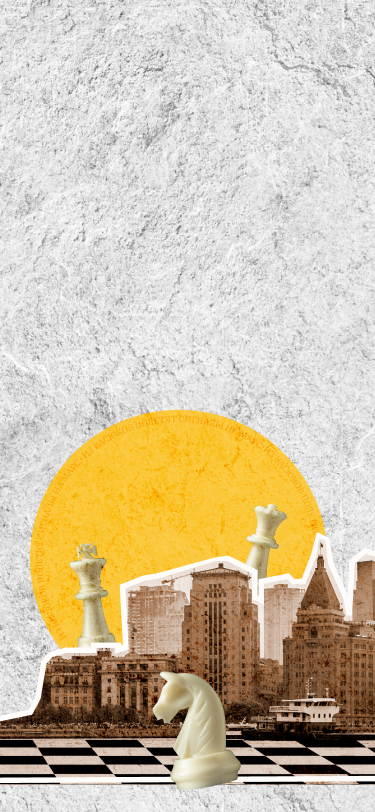
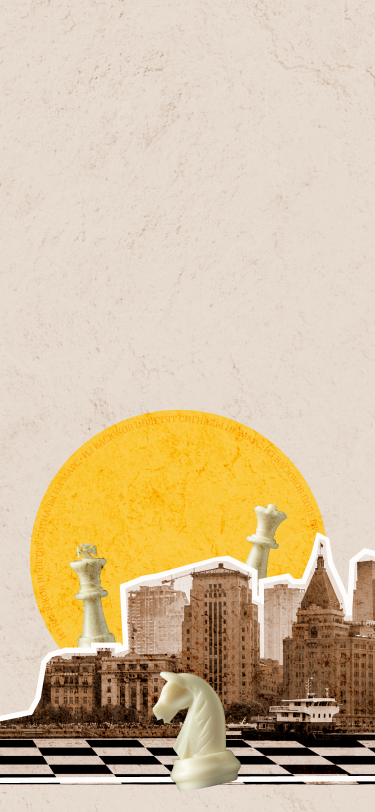
introduction page finished

Changed region(s): [[0.0, 0.0, 1.0, 0.8929], [0.0, 0.9544, 1.0, 1.0]]

diff --git a/styles/styles.css b/styles/styles.css
@@ -8,6 +8,11 @@
   box-sizing: border-box;
 }
 
+* {
+  margin: 0;
+  padding: 0;
+}
+
 /**
   Убираем внутренние отступы слева тегам списков,
   у которых есть атрибут class
@@ -194,12 +199,13 @@ svg * {
   --color-accent-alt: #3057A2;
   --background-color: #FFFFFF;
   --background-color-alt: #E9DED4;
-  --button-color-light: #FFFFFF;
+  --button-color-light: #ffffffd2;
   --button-color-dark: #1F1F1F;
   --button-color-accent: #FBCE51;
   --button-color-accent-alt: #3057A2;
   --button-main-radius: 66px;
   --border-alt-radius: 62px;
+  --border-button: 2px solid var( --button-color-dark);
   --button-main-height: 72px;
   --button-main-mobile-height: 47px;
   --button-alt-height: 35px;
@@ -237,7 +243,7 @@ svg * {
 }
 
 body {
-  font-size: clamp(16px, 1.25px, 18px);
+  font-size: clamp(16px, 1.317715959vw, 18px);
   font-family: var(--font-family-base);
   font-weight: 400;
   line-height: 1.28;
@@ -267,33 +273,68 @@ h1, h2, h3, h4 {
 }
 
 h1, .h1 {
-  font-size: clamp(36px, 4.1666666667px, 60px);
+  font-size: clamp(36px, 4.39238653vw, 60px);
+  line-height: clamp(39px, 4.831625183vw, 66px);
 }
 
 h2, .h2 {
-  font-size: clamp(36px, 3.75px, 54px);
+  font-size: clamp(36px, 3.953147877vw, 54px);
 }
 
 h3, .h3 {
-  font-size: clamp(28px, 2.5px, 36px);
+  font-size: clamp(28px, 2.635431918vw, 36px);
 }
 
 h4, .h4 {
-  font-size: clamp(16px, 1.5277777778px, 22px);
+  font-size: clamp(16px, 1.6105417277vw, 22px);
 }
 
 .comments {
-  font-size: clamp(18px, 1.3888888889px, 20px);
+  font-size: clamp(18px, 1.4641288433vw, 20px);
 }
 
 .button {
-  width: 170px;
-  border-radius: var(--border-radius-small);
+  width: 263px;
+  height: 72px;
+  border-radius: var(--button-main-radius);
   border: none;
+  padding-inline: 43px;
+  padding-block: auto;
+  font-weight: 500;
+  font-family: var(--font-family-base);
+  font-size: 16px;
+  line-height: 20.8px;
+  text-align: center;
+  color: var(--color-light);
+  background-color: var(--button-color-dark);
   cursor: pointer;
-  font-size: 14px;
-  line-height: 20px;
-  padding: 10px 0;
+  transition: var(--transition-duration);
+}
+.button:hover {
+  color: var(--button-color-dark);
+  background-color: var(--button-color-accent);
+}
+@media (max-width: 375px) {
+  .button {
+    width: 100%;
+    height: 47px;
+  }
+}
+
+.button-alt {
+  border: var(--border-button);
+  background-color: transparent;
+  color: var(--button-color-dark);
+}
+.button-alt:hover {
+  color: var(--color-light);
+  background-color: var(--button-color-dark);
+}
+@media (max-width: 375px) {
+  .button-alt {
+    background-color: var(--button-color-light);
+    border: none;
+  }
 }
 
 .header {
@@ -320,25 +361,62 @@ h4, .h4 {
 }
 
 .introduction {
-  background-image: url(/test-projects/yandex-crowd/images/bg-title.png);
+  background-image: url(/test-projects/yandex-crowd/images/bg-title-desktop.png);
   background-size: auto;
-  background-position: 50% 50%;
+  background-position: 50% 40%;
   min-height: 700px;
+  background-repeat: no-repeat;
 }
 @media (max-width: 375px) {
   .introduction {
     background-image: url(/test-projects/yandex-crowd/images/bg-title-mobile.png);
-    min-height: none;
+    min-height: 812px;
+  }
+}
+@media (min-width: 1367px) {
+  .introduction {
+    background-image: url(/test-projects/yandex-crowd/images/bg-title.png);
+    min-height: 812px;
   }
 }
 
 .hero {
+  max-width: 542px;
+  margin-top: 40px;
   display: flex;
   flex-direction: column;
-  row-gap: var(--section-padding-y);
 }
 @media ((max-width: 1366px) and (min-width: 376px)) {
   .hero {
-    row-gap: 60px;
+    margin-top: 62px;
   }
+}
+.hero__title {
+  text-align: left;
+  text-transform: uppercase;
+}
+.hero__title span {
+  display: block;
+  text-align: center;
+}
+.hero__title p {
+  text-align: right;
+}
+.hero__description {
+  margin-top: 24px;
+  text-align: left;
+}
+@media ((max-width: 1366px) and (min-width: 376px)) {
+  .hero__description {
+    text-align: center;
+  }
+}
+.hero__buttons-wrapper {
+  display: flex;
+  flex-direction: row;
+  flex-wrap: wrap;
+  align-items: center;
+  justify-content: space-between;
+  gap: 14px;
+  margin: 40px 0;
 }/*# sourceMappingURL=styles.css.map */

diff --git a/styles/blocks/_hero.scss b/styles/blocks/_hero.scss
@@ -1,21 +1,62 @@
 .introduction {
-  background-image: url(/test-projects/yandex-crowd/images/bg-title.png);
+  background-image: url(/test-projects/yandex-crowd/images/bg-title-desktop.png);
    background-size: auto;
-   background-position: 50% 50%;
+   background-position: 50% 40%;
    min-height: 700px;
+   background-repeat: no-repeat;
 
    @include mobile {
     background-image: url(/test-projects/yandex-crowd/images/bg-title-mobile.png);
-    min-height: none;
+    min-height: 812px;
    }
-  //background-color: aquamarine;
+   @include desktop-above {
+    background-image: url(/test-projects/yandex-crowd/images/bg-title.png);
+    min-height: 812px;
+   }
+
 }
 .hero {
+  max-width: 542px;
+  margin-top: 40px;
     display: flex;
     flex-direction: column;
-    row-gap: var(--section-padding-y);
-  
+
     @include desktop {
-      row-gap: 60px;
+      margin-top: 62px;
     }
+   
+    &__title {
+      text-align: left;
+      text-transform: uppercase;
+      
+      & span {
+        display: block;
+        text-align: center;
+      }
+      & p {
+        text-align: right;
+      }
+    }
+
+    &__description {
+      margin-top: 24px;
+      text-align: left;
+
+      @include desktop {
+        text-align: center;
+      }
+    }
+
+    &__buttons-wrapper {
+      display: flex;
+      flex-direction: row;
+      flex-wrap: wrap;
+      align-items: center;
+      justify-content: space-between;
+      gap: 14px;
+      margin: 40px 0;
+      
+
+    }
+
 }

diff --git a/index.html b/index.html
@@ -27,17 +27,16 @@
                 <div class="hero">
                     <div class="hero__title">
                         <h1>    Превратите уездный город
-                            в столицу
-                            земного шара</h1>
+                            <span>в столицу </span>
+                            <p> земного шара </p></h1>
                     
                     </div>
                     <div class="hero__description">
                         <p>  Оплатите взнос на телеграммы для организации Международного васюкинского турнира по шахматам</p>
-                      
                     </div>
-                    <div class="hero__buttons button">
-                        <button class="button" type="button">Поддержать шахматную мысль</button>
-                        <button class="button" type="button">Подробнее о турнире</button>
+                    <div class="hero__buttons-wrapper">
+                        <button class="hero__button button" type="button">Поддержать шахматную мысль</button>
+                        <button class="hero__button-alt  button button-alt" type="button">Подробнее о турнире</button>
                     </div>
                 </div>
             </div>

diff --git a/styles/blocks/_button.scss b/styles/blocks/_button.scss
@@ -1,13 +1,44 @@
 .button {
-    width: 170px;
-    //sheight: 40px;
-    border-radius: var(--border-radius-small);
+    width: 263px;
+    height: 72px;
+    border-radius: var(--button-main-radius);
     border: none;
+    padding-inline: 43px;
+    padding-block: auto;
+    font-weight: 500;
+    font-family: var(--font-family-base);
+    font-size: 16px;
+    line-height: 20.8px;
+    text-align: center;
+
+    color:var(  --color-light);
+    background-color: var(--button-color-dark);
     cursor: pointer;
-    font-size: 14px;
-    line-height: 20px;
-    padding: 10px 0;
+    transition: var(--transition-duration);
+
+    &:hover {
+        color:var(   --button-color-dark);
+        background-color: var(   --button-color-accent);
+    }
+
+    @include mobile {
+        width: 100%;
+        height: 47px;
+    }
 }
 
+.button-alt {
+    border: var( --border-button);
+    background-color: transparent;
+    color:var(   --button-color-dark);
 
+    &:hover {
+        color:var(  --color-light);
+        background-color: var(--button-color-dark);
+    }
 
+    @include mobile {
+        background-color: var( --button-color-light);
+        border: none;
+    }
+}

diff --git a/styles/_constants.scss b/styles/_constants.scss
@@ -13,13 +13,15 @@
   --background-color-alt: #E9DED4;
 
 // buttons
-  --button-color-light: #FFFFFF;
+  --button-color-light: #ffffffd2;
   --button-color-dark: #1F1F1F;
   --button-color-accent: #FBCE51;
   --button-color-accent-alt: #3057A2;
 
   --button-main-radius: 66px;
   --border-alt-radius: 62px;
+
+  --border-button: 2px solid var(  --button-color-dark);
 
   --button-main-height: 72px;
   --button-main-mobile-height: 47px;

diff --git a/styles/_mixins.scss b/styles/_mixins.scss
@@ -1,7 +1,9 @@
 @mixin fluid-text($max:48,$min:16) {
-    font-size: clamp(#{$min}px, #{$max/1440*100}px, #{$max}px);
+    font-size: clamp(#{$min}px, #{calc($max / 1366*100)}vw, #{$max}px);
 }
-
+@mixin fluid-line-height($max:48,$min:16) {
+  line-height: clamp(#{$min}px, #{calc($max / 1366*100)}vw, #{$max}px);
+}
 @mixin reset-link {
     color: inherit;
     cursor: pointer;

diff --git a/styles/_normalize.scss b/styles/_normalize.scss
@@ -5,8 +5,12 @@
  *::before,
  *::after {
    box-sizing: border-box;
+   
  }
- 
+ * {
+  margin: 0;
+  padding: 0;
+ }
  /**
    Убираем внутренние отступы слева тегам списков,
    у которых есть атрибут class

diff --git a/styles/_globals.scss b/styles/_globals.scss
@@ -33,6 +33,8 @@ body {
 
   h1, .h1 {
     @include fluid-text(60, 36);
+    @include fluid-line-height(66,39);
+
   }
   
   h2, .h2 {
